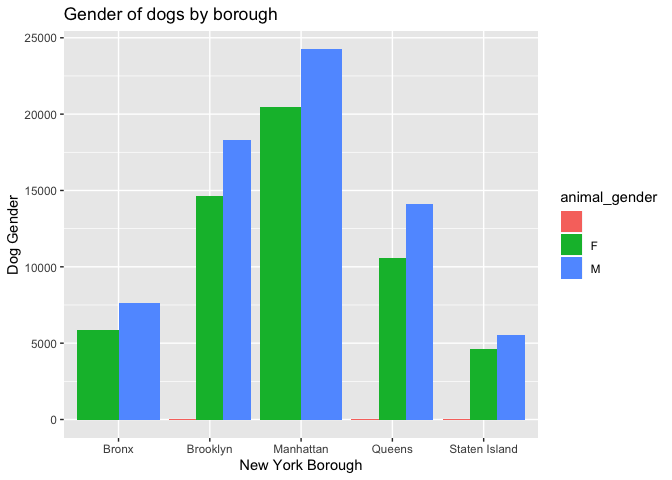
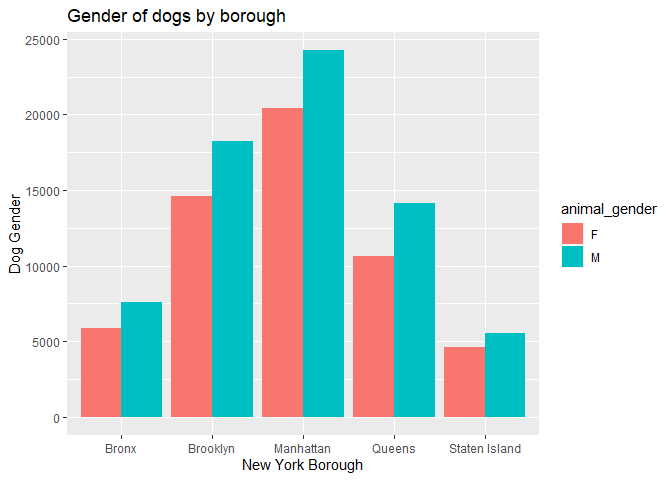
updates to borough/gender plot

Changed region(s): [[0.0, 0.0, 0.8125, 1.0], [0.8125, 0.4062, 1.0, 0.5938], [0.3125, 0.1562, 0.3438, 0.1875]]

diff --git a/Final.md b/Final.md
@@ -7,16 +7,16 @@ Data Sci Doggos
 library(tidyverse)
 ```
 
-    ## ── Attaching packages ───────────────────────────────────────────────────────────────────── tidyverse 1.2.1 ──
+    ## -- Attaching packages ----------------------------------------------------------------------- tidyverse 1.2.1 --
 
-    ## ✔ ggplot2 3.2.1     ✔ purrr   0.3.2
-    ## ✔ tibble  2.1.3     ✔ dplyr   0.8.3
-    ## ✔ tidyr   1.0.0     ✔ stringr 1.4.0
-    ## ✔ readr   1.3.1     ✔ forcats 0.4.0
+    ## v ggplot2 3.2.1     v purrr   0.3.2
+    ## v tibble  2.1.3     v dplyr   0.8.3
+    ## v tidyr   1.0.0     v stringr 1.4.0
+    ## v readr   1.3.1     v forcats 0.4.0
 
-    ## ── Conflicts ──────────────────────────────────────────────────────────────────────── tidyverse_conflicts() ──
-    ## ✖ dplyr::filter() masks stats::filter()
-    ## ✖ dplyr::lag()    masks stats::lag()
+    ## -- Conflicts -------------------------------------------------------------------------- tidyverse_conflicts() --
+    ## x dplyr::filter() masks stats::filter()
+    ## x dplyr::lag()    masks stats::lag()
 
 ``` r
 library(lubridate)
@@ -108,7 +108,9 @@ legend
 
 ``` r
 plot_2=
-  ggplot(distinct_dogz, aes(x = borough, fill = animal_gender)) +
+  distinct_dogz %>% 
+  filter(animal_gender == "M" | animal_gender == "F") %>% 
+  ggplot(aes(x = borough, fill = animal_gender)) +
   geom_histogram(position = "dodge", stat = "count") +
   labs(
     title = "Gender of dogs by borough",
@@ -323,7 +325,7 @@ distinct_dogz %>%
     ##  8 Dachshund Smooth Coat      10.7
     ##  9 Sussex Spaniel             10.5
     ## 10 Poodle, Standard           10.5
-    ## # … with 283 more rows
+    ## # ... with 283 more rows
 
 ``` r
 #10 oldest breeds.
@@ -373,7 +375,7 @@ distinct_dogz %>%
     ##  8    10008   11   
     ##  9    10009    7.08
     ## 10    10010    7.13
-    ## # … with 201 more rows
+    ## # ... with 201 more rows
 
 ``` r
 distinct_dogz %>% 
